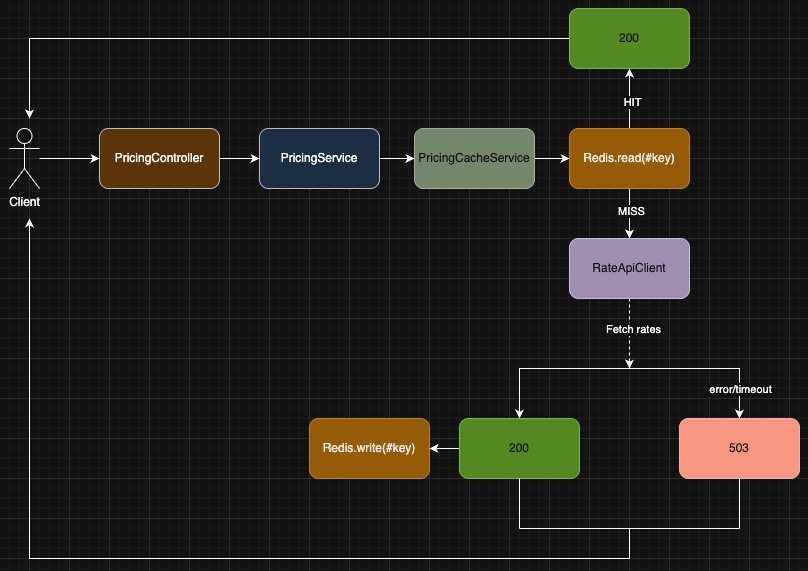
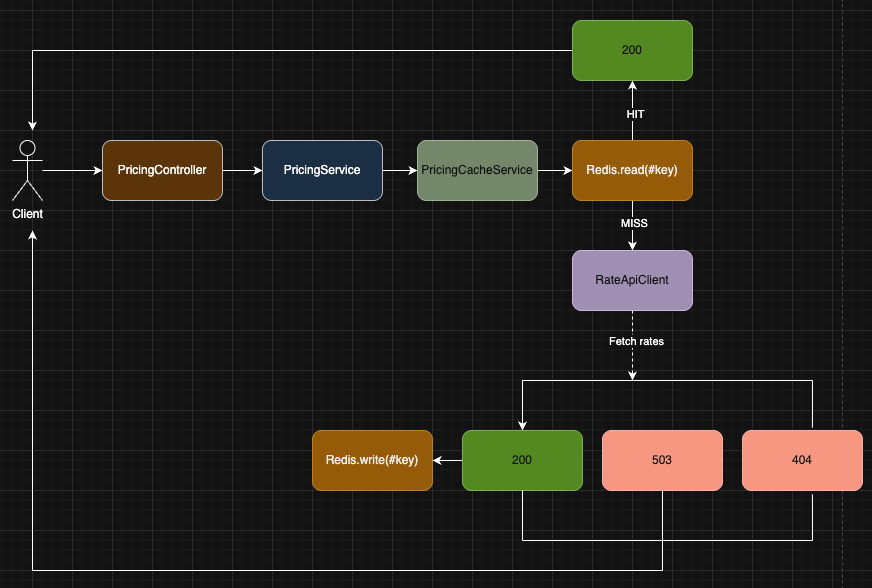
T-1 - integrated RateCacheService into PricingService and fixed HTTP status codes

diff --git a/test/controllers/pricing_controller_test.rb b/test/controllers/pricing_controller_test.rb
@@ -2,15 +2,7 @@ require "test_helper"
 
 class Api::V1::PricingControllerTest < ActionDispatch::IntegrationTest
   test "should get pricing with all parameters" do
-    mock_body = {
-      'rates' => [
-        { 'period' => 'Summer', 'hotel' => 'FloatingPointResort', 'room' => 'SingletonRoom', 'rate' => '15000' }
-      ]
-    }.to_json
-
-    mock_response = OpenStruct.new(success?: true, body: mock_body)
-
-    RateApiClient.stub(:get_rate, mock_response) do
+    Api::V1::RateCacheService.stub(:get_rate, '15000') do
       get api_v1_pricing_url, params: {
         period: "Summer",
         hotel: "FloatingPointResort",
@@ -25,21 +17,35 @@ class Api::V1::PricingControllerTest < ActionDispatch::IntegrationTest
     end
   end
 
-  test "should return error when rate API fails" do
-    mock_response = OpenStruct.new(success?: false, body: { 'error' => 'Rate not found' })
-
-    RateApiClient.stub(:get_rate, mock_response) do
+  test "should return 404 when rate is not found" do
+    Api::V1::RateCacheService.stub(:get_rate, nil) do
       get api_v1_pricing_url, params: {
         period: "Summer",
         hotel: "FloatingPointResort",
         room: "SingletonRoom"
       }
 
-      assert_response :bad_request
+      assert_response :not_found
       assert_equal "application/json", @response.media_type
 
       json_response = JSON.parse(@response.body)
       assert_includes json_response["error"], "Rate not found"
+    end
+  end
+
+  test "should return 503 when rate API fails" do
+    Api::V1::RateCacheService.stub(:get_rate, ->(**) { raise RateApiError, 'upstream error' }) do
+      get api_v1_pricing_url, params: {
+        period: "Summer",
+        hotel: "FloatingPointResort",
+        room: "SingletonRoom"
+      }
+
+      assert_response :service_unavailable
+      assert_equal "application/json", @response.media_type
+
+      json_response = JSON.parse(@response.body)
+      assert_includes json_response["error"], "upstream error"
     end
   end
 

diff --git a/app/services/api/v1/pricing_service.rb b/app/services/api/v1/pricing_service.rb
@@ -7,14 +7,22 @@ module Api::V1
     end
 
     def run
-      # TODO: Start to implement here
-      rate = RateApiClient.get_rate(period: @period, hotel: @hotel, room: @room)
-      if rate.success?
-        parsed_rate = JSON.parse(rate.body)
-        @result = parsed_rate['rates'].detect { |r| r['period'] == @period && r['hotel'] == @hotel && r['room'] == @room }&.dig('rate')
+      rate = RateCacheService.get_rate(period: @period, hotel: @hotel, room: @room)
+      if rate
+        @result = rate
       else
-        errors << rate.body['error']
+        @not_found = true
+        errors << 'Rate not found'
       end
+    rescue RateApiError => e
+      errors << e.message
+    rescue StandardError => e
+      Rails.logger.error("#{e.class}: #{e.message}")
+      errors << 'An unexpected error occurred'
+    end
+
+    def not_found?
+      @not_found || false
     end
   end
 end

diff --git a/app/controllers/api/v1/pricing_controller.rb b/app/controllers/api/v1/pricing_controller.rb
@@ -14,8 +14,10 @@ class Api::V1::PricingController < ApplicationController
     service.run
     if service.valid?
       render json: { rate: service.result }
+    elsif service.not_found?
+      render json: { error: service.errors.join(', ') }, status: :not_found
     else
-      render json: { error: service.errors.join(', ') }, status: :bad_request
+      render json: { error: service.errors.join(', ') }, status: :service_unavailable
     end
   end
 

diff --git a/README.md b/README.md
@@ -88,9 +88,10 @@ The main components:
 I split errors by whose fault they are:
 - **400** - the client sent invalid or missing params. Caught before the service is
   called.
-- **503** - everything server-side: upstream timeout, upstream error, Redis
-  unavailable, a requested combination absent from the upstream response, or an
-  unexpected internal error.
+- **404** - valid params, but the rate for this combination was not returned by the
+  upstream API in the latest batch response.
+- **503** - server-side failure: upstream timeout, upstream error, Redis unavailable,
+  or an unexpected internal error.
 
 For now I specifically chose not to fall back to direct upstream calls when Redis is down.
 It feels like a helpful degradation, but it would bypass the rate-limit protection